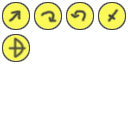
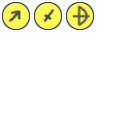
Actions are cleaned up, rotate removed

diff --git a/Classes/Action.cpp b/Classes/Action.cpp
@@ -15,7 +15,6 @@
 #include "HexMapModel.h"
 #include <iostream>
 
-//using namespace std;
 
 Action::Action(int anId, UnitModel* unit) {
 	_id = anId;	
@@ -25,14 +24,6 @@ Action::Action(int anId, UnitModel* unit) {
 		case ACTION_MOVE:
             _cost = 2;
             _targetType = TARGET_HEX;
-            break;
-		case ACTION_ROTATE_LEFT:
-            _cost = 1;
-            _targetType = 0;
-            break;
-		case ACTION_ROTATE_RIGHT:
-            _cost = 1;
-            _targetType = 0;
             break;
 		case ACTION_STRIKE:
             _cost = 2;
@@ -56,12 +47,6 @@ void Action::doIt(const ActionState& statePoint) {
         switch (_id) {
             case ACTION_MOVE:
                 _unit->move(statePoint.pos);			
-                break;
-            case ACTION_ROTATE_LEFT:
-                _unit->rotate(1);
-                break;
-            case ACTION_ROTATE_RIGHT:
-                _unit->rotate(-1);			
                 break;
             case ACTION_STRIKE:
                 _unit->strike(statePoint.pos);
@@ -89,16 +74,6 @@ bool Action::isAvailableAtHex(const MPoint& hex) {
                 return (ModelManager::instance()->getUnitAtPos(hex) == 0);
             }
             return false;
-            //return (distance == 1 && ModelManager::instance()->getUnitAtPos(hex) == 0);
-		case ACTION_ROTATE_LEFT:
-            return false;
-		case ACTION_ROTATE_RIGHT:
-            return false;
-		/*case ACTION_STRIKE:
-            return (distance == 1 && ModelManager::instance()->getUnitAtPos(hex) != 0);
-		case ACTION_FIRE:
-            return (distance > 0 && distance <= 2 && ModelManager::instance()->getUnitAtPos(hex) != 0);
-		*/	
 		default:
 			return false;
 	}

diff --git a/Classes/Action.h b/Classes/Action.h
@@ -17,10 +17,8 @@
 #include "toolkit.h"
 
 #define ACTION_MOVE 0
-#define ACTION_ROTATE_LEFT 1
-#define ACTION_ROTATE_RIGHT 2
-#define ACTION_STRIKE 3
-#define ACTION_FIRE 4
+#define ACTION_STRIKE 1
+#define ACTION_FIRE 2
 
 #define TARGET_HEX 1
 #define TARGET_UNIT 2
